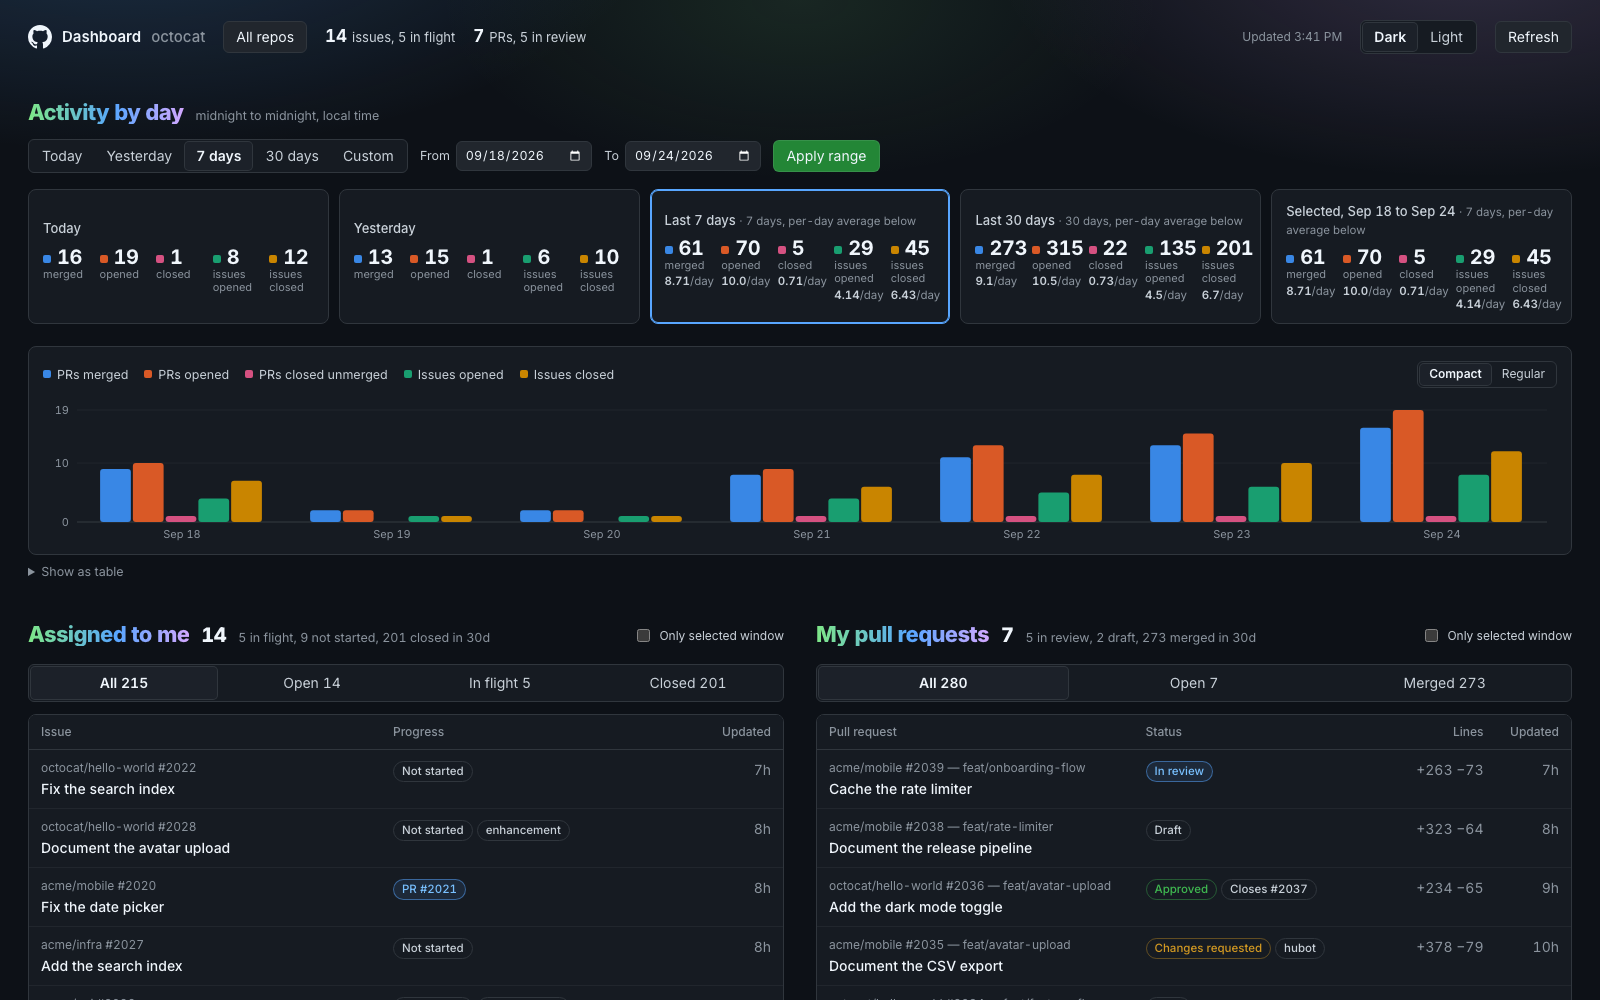
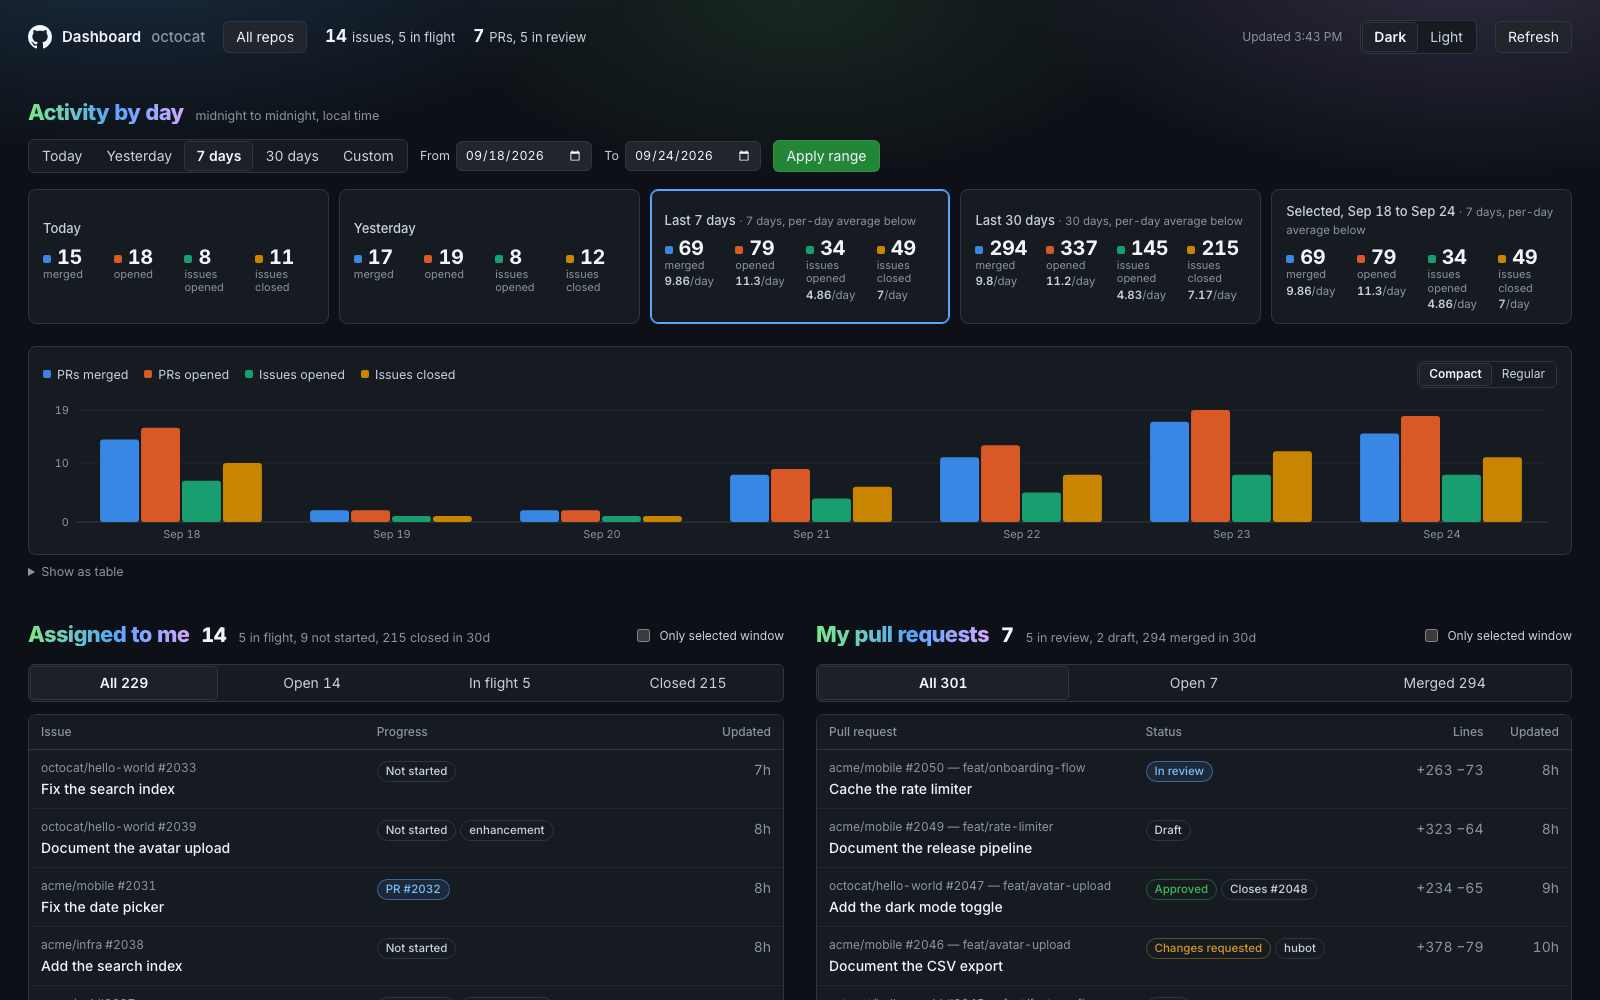
Drop the PRs-closed-unmerged series (#2)

diff --git a/public/index.html b/public/index.html
@@ -11,7 +11,7 @@
   color-scheme:dark;
   --page:#0d1117; --surface:#161b22; --raise:#1c2129; --ink:#f0f6fc; --ink2:#c9d1d9; --muted:#8b949e;
   --rule:#30363d; --grid:#21262d; --border:#30363d; --accent:#58a6ff; --accent-ink:#79c0ff;
-  --s1:#3987e5; --s2:#d95926; --s3:#199e70; --s4:#c98500; --s5:#d55181;
+  --s1:#3987e5; --s2:#d95926; --s3:#199e70; --s4:#c98500;
   --good:#3fb950; --warn:#d29922; --bad:#f85149; --chip:#21262d; --focus:#58a6ff;
   --g1:#7ee787; --g2:#58a6ff; --g3:#d2a8ff; --g4:#ffa657; --g5:#ff7b72;
   --glow1:rgba(88,166,255,.22); --glow2:rgba(210,168,255,.18); --glow3:rgba(126,231,135,.10);
@@ -21,7 +21,7 @@
   color-scheme:light;
   --page:#ffffff; --surface:#f6f8fa; --raise:#ffffff; --ink:#1f2328; --ink2:#424a53; --muted:#656d76;
   --rule:#d0d7de; --grid:#e6e9ed; --border:#d0d7de; --accent:#0969da; --accent-ink:#0550ae;
-  --s1:#2a78d6; --s2:#eb6834; --s3:#1baf7a; --s4:#eda100; --s5:#e87ba4;
+  --s1:#2a78d6; --s2:#eb6834; --s3:#1baf7a; --s4:#eda100;
   --good:#1a7f37; --warn:#9a6700; --bad:#cf222e; --chip:#f6f8fa; --focus:#0969da;
   --g1:#1a7f37; --g2:#0969da; --g3:#8250df; --g4:#bc4c00; --g5:#cf222e;
   --glow1:rgba(9,105,218,.14); --glow2:rgba(130,80,223,.12); --glow3:rgba(26,127,55,.08);
@@ -228,7 +228,6 @@ const $ = (s) => document.querySelector(s);
 const SERIES = [
   ["prsMerged", "PRs merged", "var(--s1)", "merged"],
   ["prsOpened", "PRs opened", "var(--s2)", "opened"],
-  ["prsClosed", "PRs closed unmerged", "var(--s5)", "closed"],
   ["issuesOpened", "Issues opened", "var(--s3)", "issues opened"],
   ["issuesClosed", "Issues closed", "var(--s4)", "issues closed"],
 ];

diff --git a/README.md b/README.md
@@ -1,6 +1,6 @@
 # github-dashboard
 
-Local dashboard of your own GitHub activity: assigned issues, open PRs, and per-day opened/closed/merged counts.
+Local dashboard of your own GitHub activity: assigned issues, open PRs, and per-day opened/merged counts.
 
 ![Dashboard with sample data](docs/screenshot.png)
 
@@ -32,7 +32,7 @@ Only the owner session (localhost with `gh`) sees the "Cloned on this Mac" repo 
 - Assigned issues: `assignee:me is:issue is:open`. In-flight = has an open linked PR.
 - My open PRs: `author:me is:pr is:open`. In review = not draft.
 - Issues opened: created by me that day. Issues closed: assigned to me, closed that day.
-- PRs opened / merged: authored by me. PRs closed = closed without merge.
+- PRs opened / merged: authored by me.
 - Days are local midnight to midnight (server timezone).
 
 ## Configuration (`.env` next to `start.sh`, all optional)
